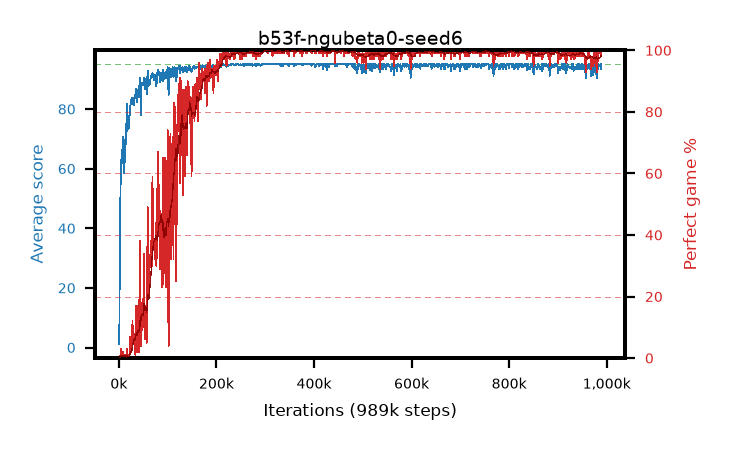
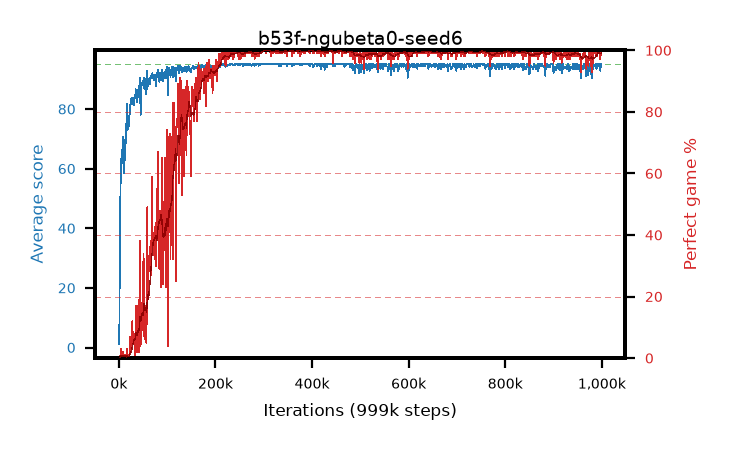
live pictures of 4 arm(s)

diff --git a/results/b53f-ngubeta0-seed6/b53f-ngubeta0-seed6.md b/results/b53f-ngubeta0-seed6/b53f-ngubeta0-seed6.md
@@ -1,6 +1,6 @@
 # b53f-ngubeta0-seed6
 
-step **989,000** · 989 evals · trailing **93.8** · peak **94.99** @323,000 · sef **86.3** · best30 **99.8** @323,000
+step **999,000** · 999 evals · trailing **94.02** · peak **94.99** @323,000 · sef **86.5** · best30 **99.8** @323,000
 
 ## Config
 
@@ -80,15 +80,15 @@ step **989,000** · 989 evals · trailing **93.8** · peak **94.99** @323,000 ·
 | 2000 | 35.17 | 18.16 | 10.0 | 67.0 | 29.965 | 0.0 | 0.4 |
 | 3000 | 47.63 | 27.98 | 1.0 | 93.0 | 42.642 | 0.0 | 0.4 |
 | ... | ... | ... | ... | ... | ... | ... | ... |
-| 978000 | 93.51 | 93.64 | 20.0 | 95.0 | 190.219 | 98.0 | 0.4 |
-| 979000 | 95.0 | 93.64 | 95.0 | 95.0 | 193.782 | 100.0 | 0.4 |
-| 980000 | 90.36 | 93.54 | 11.0 | 95.0 | 181.867 | 93.0 | 0.4 |
-| 981000 | 94.03 | 93.51 | 19.0 | 95.0 | 188.763 | 96.0 | 0.4 |
-| 982000 | 93.53 | 93.48 | 18.0 | 95.0 | 189.226 | 97.0 | 0.4 |
-| 983000 | 95.0 | 93.53 | 95.0 | 95.0 | 193.789 | 100.0 | 0.4 |
-| 984000 | 94.95 | 93.53 | 90.0 | 95.0 | 192.727 | 99.0 | 0.4 |
-| 985000 | 94.29 | 93.59 | 24.0 | 95.0 | 192.031 | 99.0 | 0.4 |
-| 986000 | 94.24 | 93.61 | 19.0 | 95.0 | 191.991 | 99.0 | 0.4 |
-| 987000 | 94.29 | 93.74 | 24.0 | 95.0 | 192.026 | 99.0 | 0.4 |
 | 988000 | 95.0 | 93.79 | 95.0 | 95.0 | 193.783 | 100.0 | 0.4 |
 | 989000 | 93.46 | 93.8 | 14.0 | 95.0 | 190.169 | 98.0 | 0.4 |
+| 990000 | 94.25 | 93.8 | 20.0 | 95.0 | 192.0 | 99.0 | 0.4 |
+| 991000 | 94.74 | 93.84 | 69.0 | 95.0 | 192.48 | 99.0 | 0.4 |
+| 992000 | 95.0 | 93.84 | 95.0 | 95.0 | 193.787 | 100.0 | 0.4 |
+| 993000 | 94.24 | 93.82 | 19.0 | 95.0 | 191.988 | 99.0 | 0.4 |
+| 994000 | 95.0 | 93.82 | 95.0 | 95.0 | 193.773 | 100.0 | 0.4 |
+| 995000 | 94.21 | 93.82 | 16.0 | 95.0 | 191.957 | 99.0 | 0.4 |
+| 996000 | 94.91 | 93.86 | 89.0 | 95.0 | 191.608 | 98.0 | 0.4 |
+| 997000 | 92.8 | 93.84 | 19.0 | 95.0 | 188.468 | 97.0 | 0.4 |
+| 998000 | 95.0 | 93.98 | 95.0 | 95.0 | 193.778 | 100.0 | 0.4 |
+| 999000 | 95.0 | 94.02 | 95.0 | 95.0 | 193.789 | 100.0 | 0.4 |
